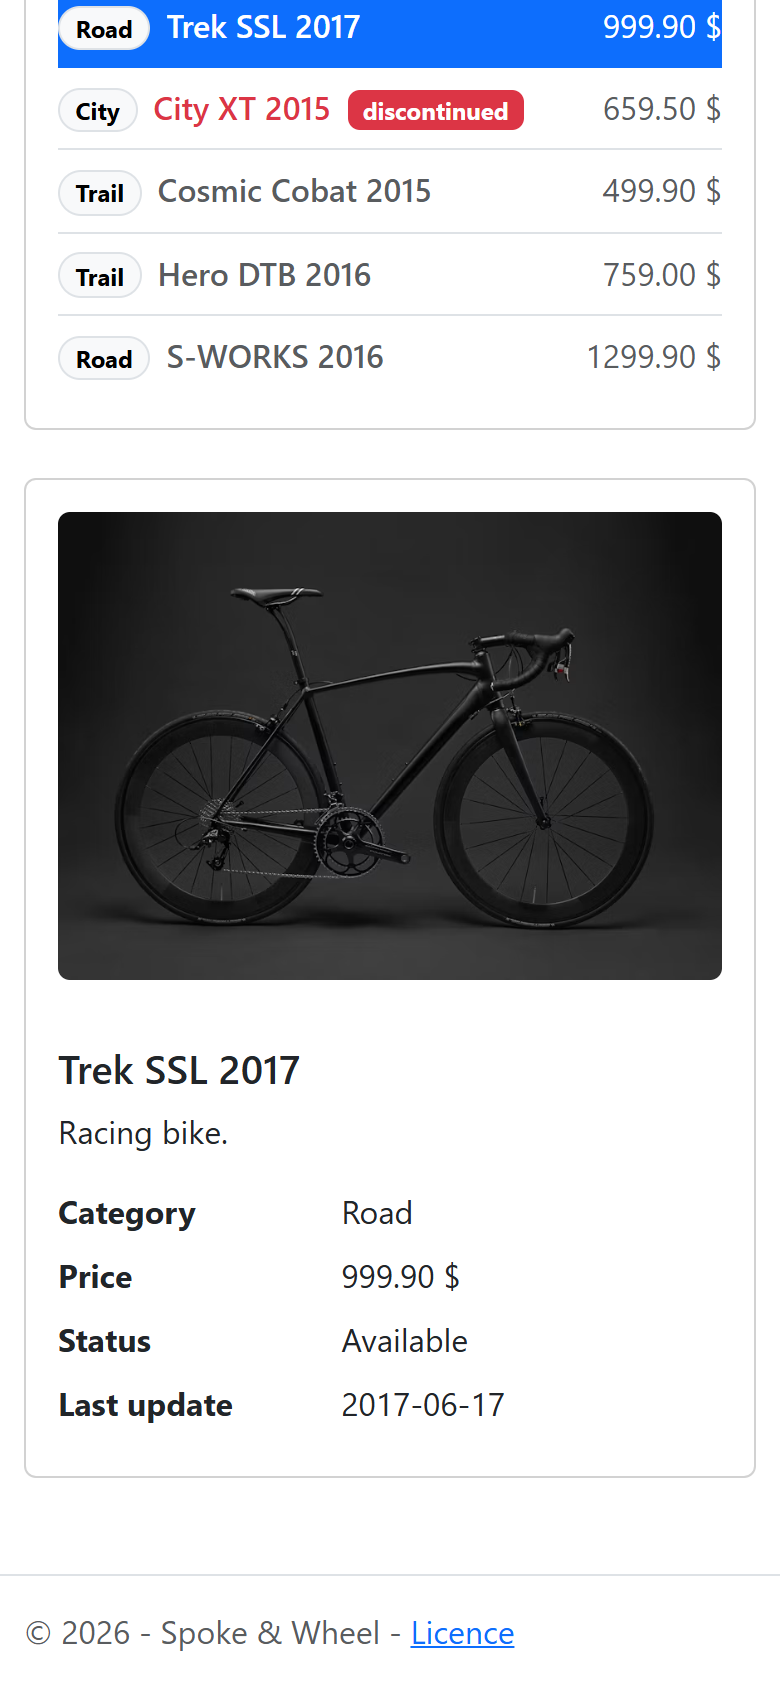
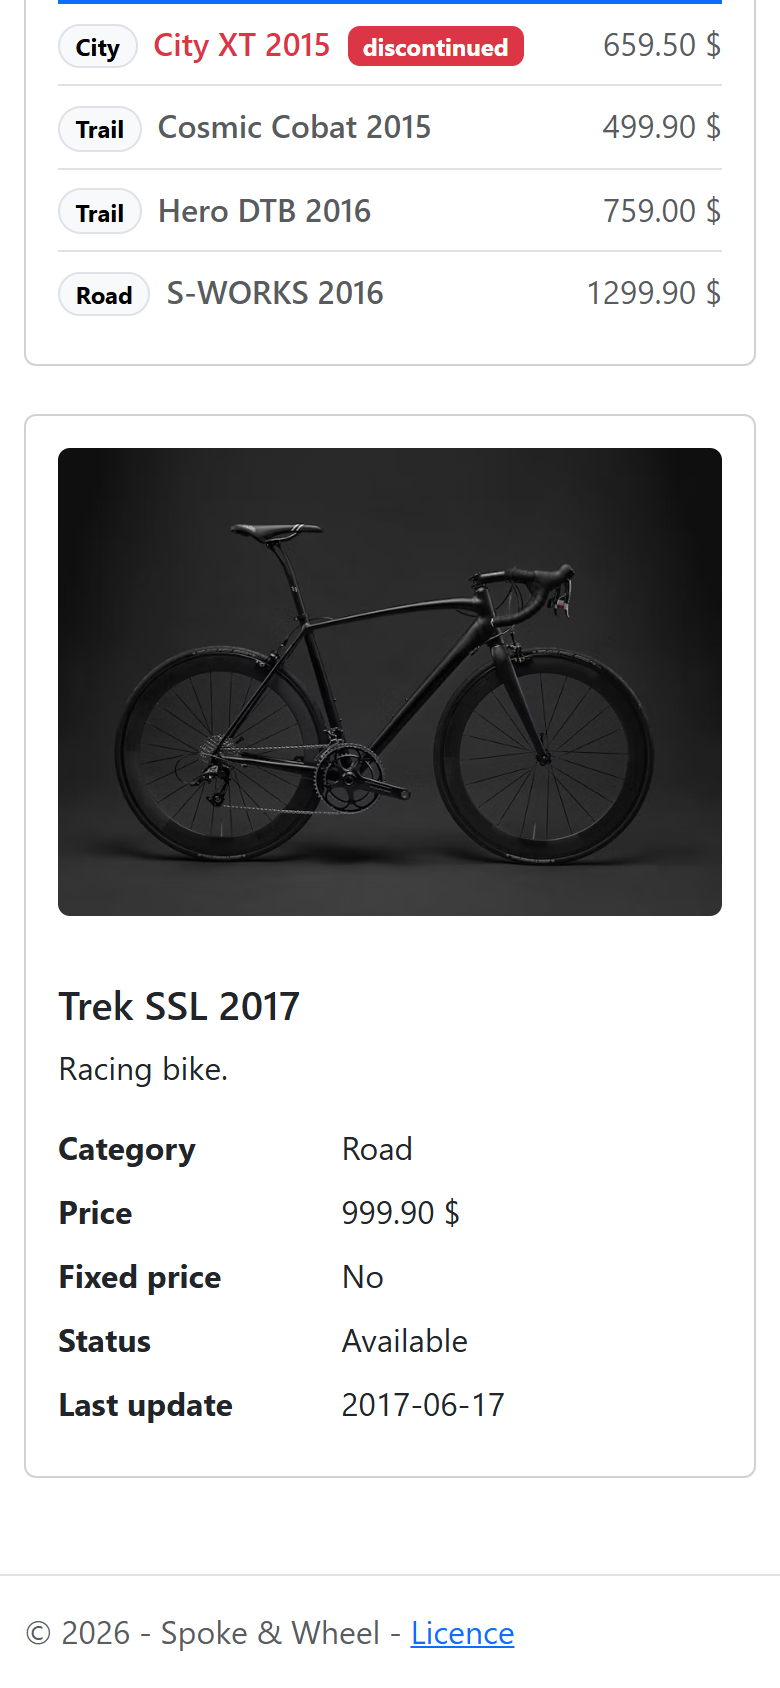
Detail card: fixed price row always shown
Fixed price was only mentioned when true, and no bike in the catalogue
has a fixed price, so the field never appeared. It is now a row of its
own, Yes or No, between the price and the status. Screenshots updated.

Changed region(s): [[0.0308, 0.0, 0.9538, 0.7701], [0.4308, 0.6777, 0.5846, 0.7701], [0.9538, 0.2464, 0.9846, 0.2773]]

diff --git a/src/components/ProductDetail.vue b/src/components/ProductDetail.vue
@@ -20,7 +20,9 @@ defineProps({
             <dt class="col-5 col-md-6">Category</dt>
             <dd class="col-7 col-md-6">{{ product.category }}</dd>
             <dt class="col-5 col-md-6">Price</dt>
-            <dd class="col-7 col-md-6">{{ product.price.toFixed(2) }} $ <span v-if="product.fixedPrice" class="text-muted">(fixed)</span></dd>
+            <dd class="col-7 col-md-6">{{ product.price.toFixed(2) }} $</dd>
+            <dt class="col-5 col-md-6">Fixed price</dt>
+            <dd class="col-7 col-md-6">{{ product.fixedPrice ? 'Yes' : 'No' }}</dd>
             <dt class="col-5 col-md-6">Status</dt>
             <dd class="col-7 col-md-6" :class="{ 'text-danger': product.discontinued }">{{ product.discontinued ? 'Discontinued' : 'Available' }}</dd>
             <dt class="col-5 col-md-6">Last update</dt>

diff --git a/README.md b/README.md
@@ -20,7 +20,7 @@ components, three props, one event, and a single `ref` for the bike picked.
 
 ![A white page with a drawn bicycle logo and the title Spoke & Wheel, then a card headed Our bikes listing five bikes, each with a category pill, Road, City or Trail, and its price: Trek SSL 2017, City XT 2015 in red with a discontinued badge, Cosmic Cobat 2015, Hero DTB 2016 and S-WORKS 2016](preview.png)
 
-![The same page after a click on Cosmic Cobat 2015: its row is highlighted in blue and a detail card under the list shows its picture on the left and, on the right, the name, the description Great bike., the category Trail, the price 499.90 $, the status Available and the last update 2015-05-17](preview-detail.png)
+![The same page after a click on Cosmic Cobat 2015: its row is highlighted in blue and a detail card under the list shows its picture on the left and, on the right, the name, the description Great bike., the category Trail, the price 499.90 $, Fixed price No, the status Available and the last update 2015-05-17](preview-detail.png)
 
 ![The same page on a phone, filling the width, with Trek SSL 2017 selected and its detail card stacked under the list](preview-mobile.png)
 
